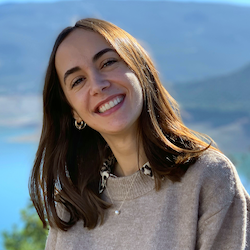
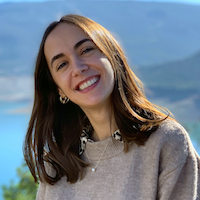
downsize cover images

diff --git a/index.html b/index.html
@@ -52,7 +52,7 @@
     <!-- Banner -->
     <section id="banner" class="banner full">
       <article>
-        <img src="images/DSC4222.jpeg" alt="" />
+        <img src="images/mainpage/coverpic.jpeg" alt="" />
         <div class="inner">
           <header>
             <p>Welcome to my portfolio</p>
@@ -75,7 +75,8 @@
         </div>
         <div>
           <p class="justified">
-            <span class="image left"><img src="images/about.jpg" alt="" /></span
+            <span class="image left"
+              ><img src="images/mainpage/about.png" alt="" /></span
             >My name is Elena, I am 29 years old and I am from Spain. I studied
             a Bachelor's Degree in Telecommunications engineering at the
             University of Granada and afterwards I worked for almost 3 years
@@ -101,7 +102,7 @@
       <div class="grid">
         <!-- Haptic handles -->
         <figure class="effect-chico">
-          <img src="images/haptic_handles.png" alt="" />
+          <img src="images/mainpage/haptic_handles.jpeg" alt="" />
           <figcaption>
             <h2 style="color: white">Haptic <span>handlebar</span></h2>
             <p>Navigate your way with a haptic-vibration handlebar</p>
@@ -111,7 +112,7 @@
 
         <!-- Ljus -->
         <figure class="effect-chico">
-          <img src="images/Ljus.png" alt="" />
+          <img src="images/mainpage/ljus.jpeg" alt="" />
           <figcaption>
             <h2 style="color: white">Ljus <span>lamp</span></h2>
             <p>Interactive lamp driven by hands interactions</p>
@@ -121,7 +122,7 @@
 
         <!-- LinGen -->
         <figure class="effect-chico">
-          <img src="images/device_main.png" alt="" />
+          <img src="images/mainpage/device_main.jpeg" alt="" />
           <figcaption>
             <h2 style="color: white">The LinGen <span>human-powered</span></h2>
             <p>
@@ -134,7 +135,7 @@
 
         <!-- Email sender -->
         <figure class="effect-chico">
-          <img src="images/resizedhpi2.png" alt="" />
+          <img src="images/mainpage/emailsender.jpeg" alt="" />
           <figcaption>
             <h2 style="color: white">The Email <span>Sender</span></h2>
             <p>
@@ -146,7 +147,7 @@
 
         <!-- Fruitine -->
         <figure class="effect-chico">
-          <img src="images/fruitine2.png" alt="" />
+          <img src="images/mainpage/fruitine.jpeg" alt="" />
           <figcaption>
             <h2>The Interactive <span>Fruitine</span></h2>
             <p>
@@ -158,7 +159,7 @@
 
         <!-- Memory game -->
         <figure class="effect-chico">
-          <img src="images/haptic.png" alt="" />
+          <img src="images/mainpage/haptic_game.jpeg" alt="" />
           <figcaption>
             <h2>Haptic Memory <span>Game</span></h2>
             <p>The traditional memory game adapted to a haptic device</p>
@@ -168,7 +169,7 @@
 
         <!-- Conversational AI -->
         <figure class="effect-chico">
-          <img src="images/furhatmainscreen.png" alt="" />
+          <img src="images/mainpage/furhat.jpeg" alt="" />
           <figcaption>
             <h2>Conversational <span>AI</span></h2>
             <p>
@@ -191,7 +192,7 @@
 
         <!-- Lyric searching app -->
         <figure class="effect-chico">
-          <img src="images/lyric.png" alt="" />
+          <img src="images/mainpage/lyric.jpeg" alt="" />
           <figcaption>
             <h2>The Lyric searching <span>App</span></h2>
             <p>

diff --git a/assets/css/main.css b/assets/css/main.css
@@ -2350,12 +2350,12 @@
 			max-width: 100%;
 		}
 
-		.image.left, .image.right {
+		/* .image.left, .image.right {
 			max-width: 35%;
-		}
+		} */
 
 			.image.left img, .image.right img {
-				width: 100%;
+				width: 200px;
 			}
 
 		.image.left {
